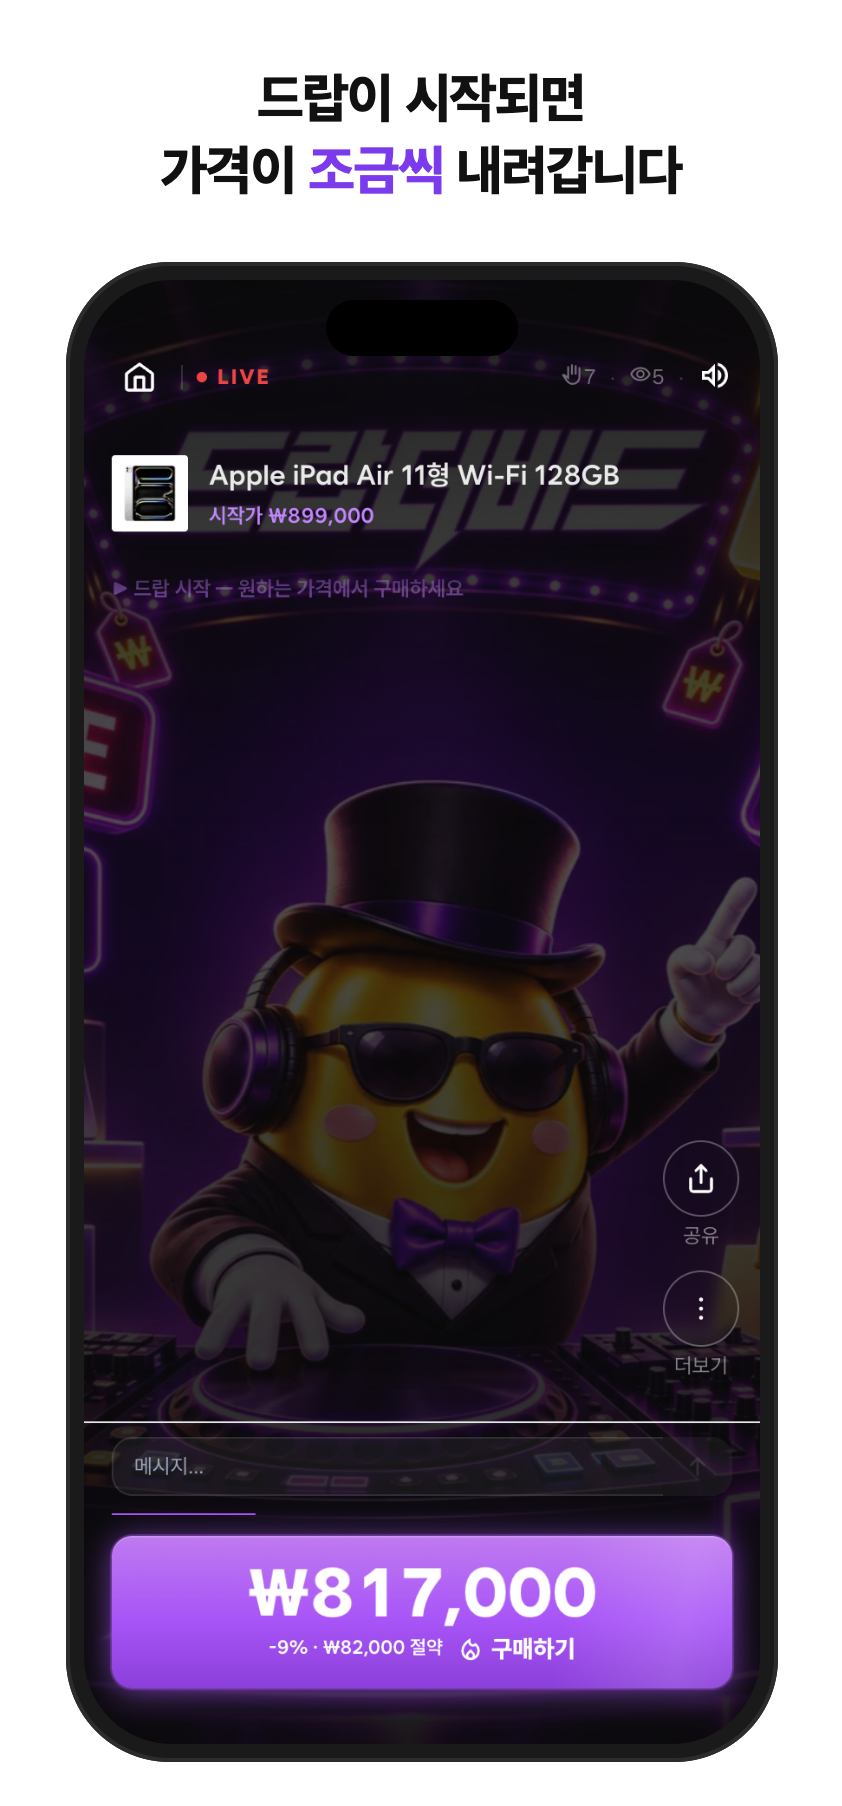
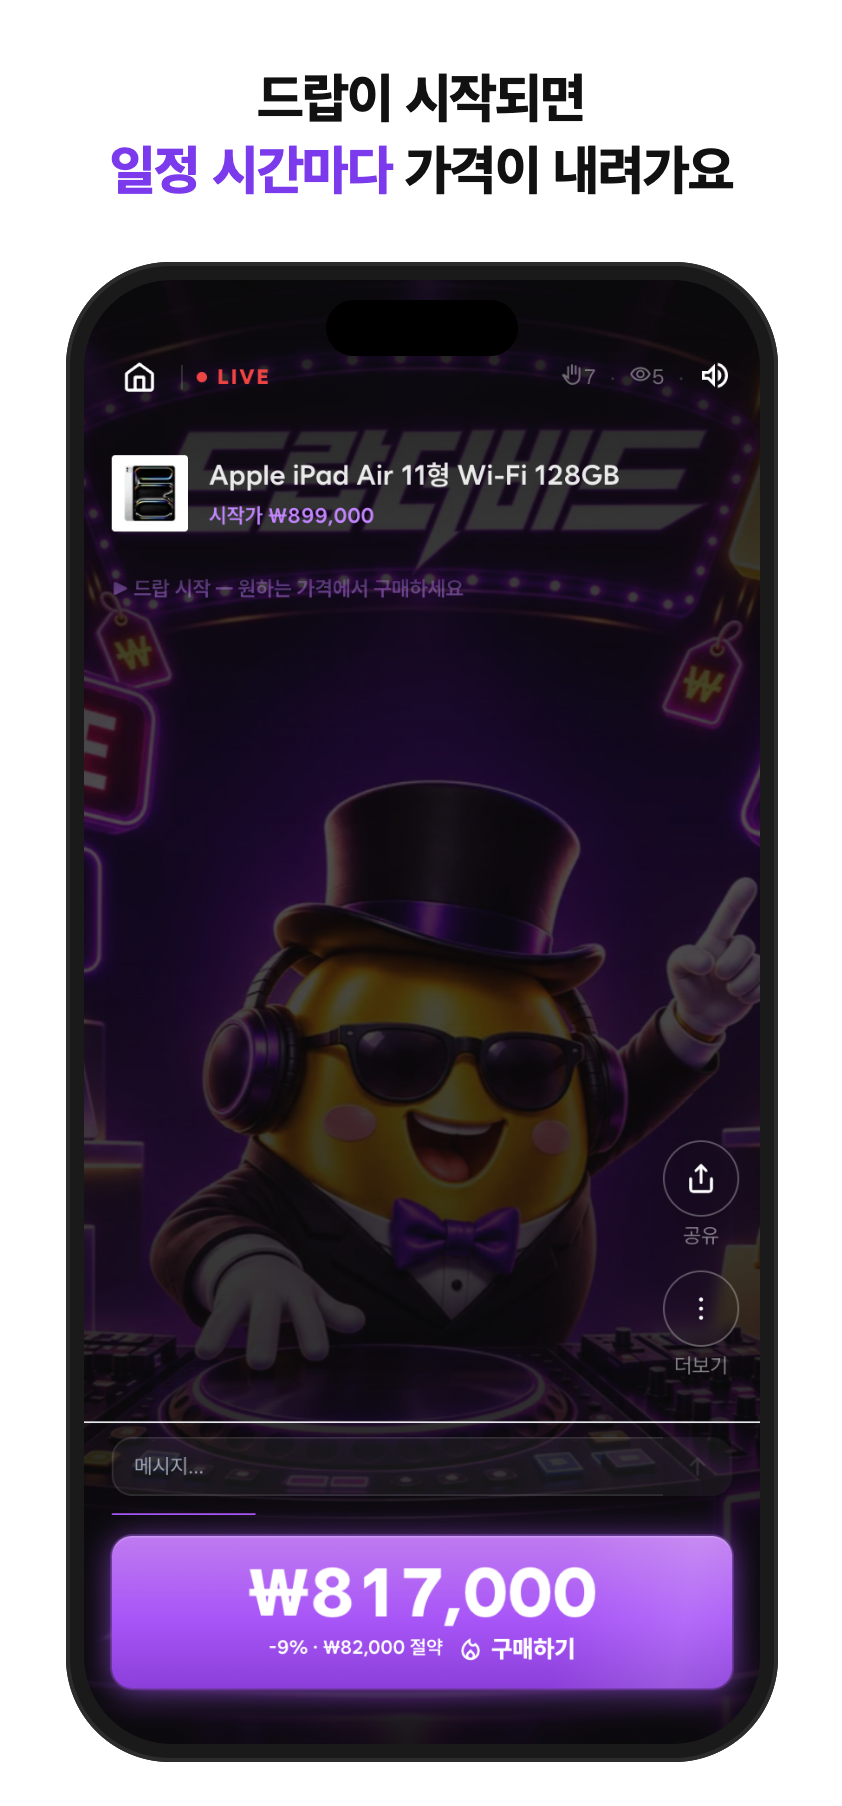
Guide slides 3/6 recaptioned; footer drop-format blurb removed
설명3: '가격이 조금씩 내려갑니다' -> '일정 시간마다 가격이 내려가요'.
설명6: '30분 안에 결제하세요' -> '최종 할인된 가격으로 상품을 구매하세요'.
Only the caption band was re-rendered; the phone captures are unchanged.
Originals kept in docs/archive/guide-slides-pre-kakao to decide on after
Kakao Pay approval. SiteFooter no longer shows the 실시간 가격하락 딜 line.

Changed region(s): [[0.1235, 0.062, 0.8646, 0.124]]

diff --git a/app/components/SiteFooter.tsx b/app/components/SiteFooter.tsx
@@ -44,10 +44,7 @@ export default function SiteFooter({ withBottomNav = false }: { withBottomNav?: 
       >
         사업자정보 확인
       </a>
-      <p className="mt-3">
-        드랍더비드는 실시간 가격하락 딜 방식으로 상품을 판매합니다. 드랍 참여는 무료이며, 구매를 확정한 상품의 구매가만 결제합니다.
-      </p>
-      <p className="mt-2">© {b.companyName}. All rights reserved.</p>
+      <p className="mt-3">© {b.companyName}. All rights reserved.</p>
     </footer>
   );
 }

diff --git a/docs/archive/guide-slides-pre-kakao/README.md b/docs/archive/guide-slides-pre-kakao/README.md
@@ -1,0 +1,11 @@
+# 이용방법 슬라이드 — 변경 전 원본 (2026-11-19 보관)
+
+카카오페이 심사 중 문구를 바꾸면서 원본을 여기 보관했다. 카카오페이 승인 후
+되돌릴지(또는 다른 문구로 바꿀지) 결정한다.
+
+| 파일 | 원래 문구 | 현재 public/ 문구 |
+|---|---|---|
+| 설명3.png | 드랍이 시작되면 / 가격이 **조금씩** 내려갑니다 | 드랍이 시작되면 / **일정 시간마다** 가격이 내려가요 |
+| 설명6.png | 구매가 확정되면 / **30분 안에** 결제하세요 | **최종 할인된 가격**으로 / 상품을 구매하세요 |
+
+되돌리기: `cp docs/archive/guide-slides-pre-kakao/설명{3,6}.png public/`
